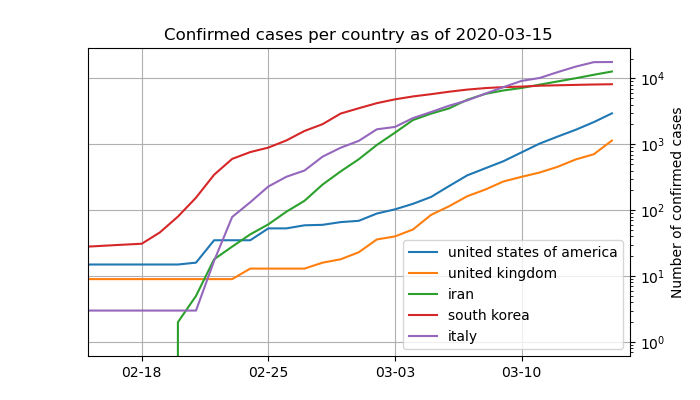
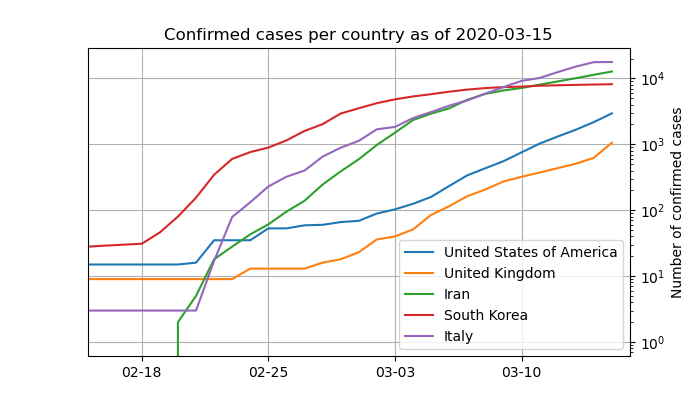
No automatic conversion to lower case
This makes plots more agreable to look at

diff --git a/make_plots.py b/make_plots.py
@@ -1,9 +1,9 @@
 import os
-os.system('python covid19plot.py -log -dark -deaths -out special_1_deaths "united states of america" "united kingdom" iran "south korea" italy')
-os.system('python covid19plot.py -log -dark -out special_1_count "united states of america" "united kingdom" iran "south korea" italy')
+os.system('python covid19plot.py -log -dark -deaths -out special_1_deaths "United States of America" "United Kingdom" Iran "South Korea" Italy')
+os.system('python covid19plot.py -log -dark -out special_1_count "United States of America" "United Kingdom" Iran "South Korea" Italy')
 
-os.system('python covid19plot.py -log -dark -deaths -out middle_europe_deaths france germany austria italy')
-os.system('python covid19plot.py -log -dark -out middle_europe_count france germany austria italy')
+os.system('python covid19plot.py -log -dark -deaths -out middle_europe_deaths France Germany Austria Italy')
+os.system('python covid19plot.py -log -dark -out middle_europe_count France Germany Austria Italy')
 
-os.system('python covid19plot.py -log -dark -deaths -out north_europe_deaths sweden norway denmark')
-os.system('python covid19plot.py -log -dark -out north_europe_count sweden norway denmark')
+os.system('python covid19plot.py -log -dark -deaths -out north_europe_deaths Sweden Norway Denmark')
+os.system('python covid19plot.py -log -dark -out north_europe_count Sweden Norway Denmark')

diff --git a/covid19plot.py b/covid19plot.py
@@ -73,7 +73,7 @@ xl_sheet = wb_obj.sheet_by_index(0)
 
 date = lambda x: datetime.fromordinal(datetime(1900, 1, 1).toordinal() + int(x.value) - 2)
 dates = list(map(date, xl_sheet.col(0)[1:]))
-countries = list(map(lambda x: x.value.lower(), xl_sheet.col(1)[1:]))
+countries = list(map(lambda x: x.value, xl_sheet.col(1)[1:]))
 counts = list(map(lambda x: x.value, xl_sheet.col(column)[1:])) # Column 2 cases, Column 3 deaths Rainer Winkler
 
 data = {}

diff --git a/README.md b/README.md
@@ -18,14 +18,14 @@ You may delete the cache for images in the browser when the plots are not actual
 ## Usage
 Calculate all plots with `python make_plots.py`
 
-To make individual plots about cases use `python covid19plot.py france germany austria`
-To plot with logarithmic y axis add -log: `python covid19plot.py -log france germany austria`
+To make individual plots about cases use `python covid19plot.py France Germany Austria`
+To plot with logarithmic y axis add -log: `python covid19plot.py -log France Germany Austria`
 Country names are in lowercase and have to be like in the read Excel file.
-To plot deaths add -deaths for instance `python covid19plot.py -deaths france spain`
+To plot deaths add -deaths for instance `python covid19plot.py -deaths France Spain`
 
-To use symbols user -format and provide a list of format options: `python covid19plot.py -log austria germany france -format "ro gs bd" -deaths`
+To use symbols user -format and provide a list of format options: `python covid19plot.py -log Austria Germany France -format "ro gs bd" -deaths`
 Use the format options from Matlab (As they are used by Matplotlib.
 
-To save to file add -out filename for instance `python covid19plot.py france germany austria -out middle_europe_count`
-To save to file without displaying a plot add -dark for instance `python covid19plot.py france germany austria -out middle_europe_count -dark`
+To save to file add -out filename for instance `python covid19plot.py France Germany Austria -out middle_europe_count`
+To save to file without displaying a plot add -dark for instance `python covid19plot.py France Germany Austria -out middle_europe_count -dark`
 
